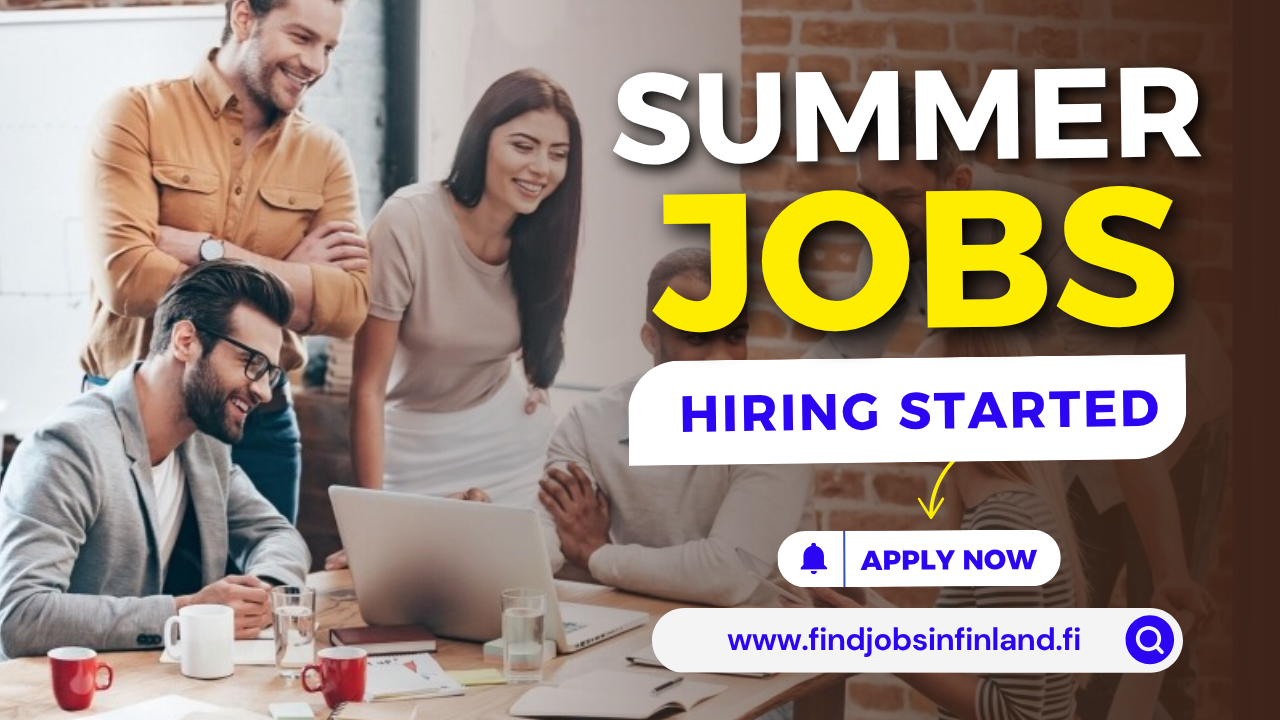
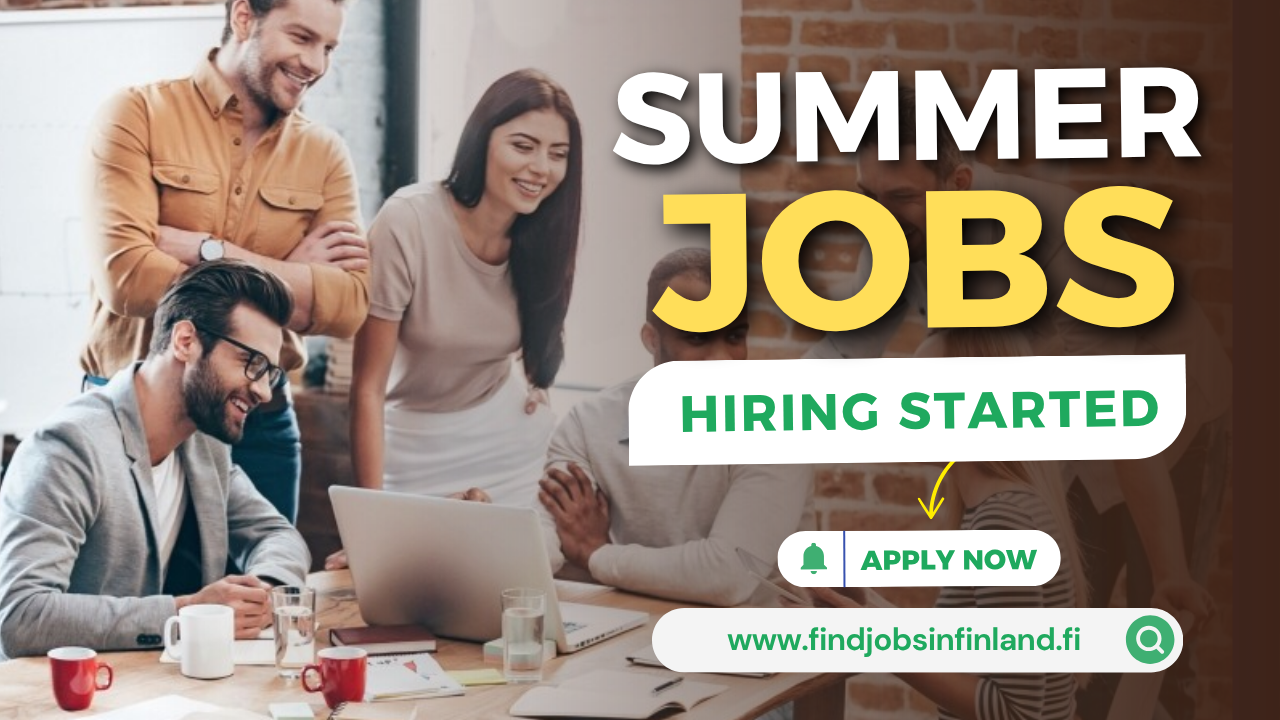
feat: add new blog posts, job listings, and supporting assets while updating site documentation and pages

diff --git a/index.html b/index.html
@@ -18,9 +18,9 @@
   <meta
     content="jobs in Finland, findjobsinfinland, Finland job vacancies, job opportunities in Finland, Finland jobs for foreigners, part-time jobs in Finland, full-time jobs in Finland, apply for jobs in Finland, work in Finland, job listings Finland, hiring now in Finland, job search Finland, jobs in Finland for immigrants, jobs in Finland for non-EU citizens, jobs in Finland for foreigners 2025, how to get a job in Finland as a foreigner, work permit jobs in Finland, jobs in Finland for refugees, work in Finland without Finnish language, no Finnish required jobs, English speaking jobs in Finland, jobs for expats in Finland, foreign worker jobs Finland, student jobs in Finland, part-time jobs for students Finland, international student jobs Finland, jobs in Finland for students 2025, work while studying in Finland, student work permit Finland, weekend jobs Finland students, Summer Jobs in Finland for students, cleaning jobs in Finland, delivery jobs in Finland, IT jobs in Finland, software developer jobs Finland, restaurant jobs Finland, supermarket jobs Finland, warehouse jobs Finland, construction jobs Finland, farm jobs Finland, driver jobs Finland, remote jobs in Finland, online jobs in Finland, care jobs Finland, nursing jobs Finland, hospitality jobs Finland, factory jobs Finland, freelance jobs in Finland, jobs in Helsinki, jobs in Espoo, jobs in Vantaa, jobs in Tampere, jobs in Turku, jobs in Oulu, jobs in Lahti, jobs in Jyväskylä, jobs in Finland for foreigners in Helsinki, part-time jobs in Espoo, full-time jobs in Vantaa, how to find a job in Finland, how to apply for jobs in Finland, where to look for jobs in Finland, which jobs are available for foreigners in Finland, how can I work in Finland as a student, what jobs can I do without speaking Finnish, what is the easiest job to get in Finland, is it easy to get a job in Finland for immigrants, best jobs in Finland for international students, can I work in Finland as a non-EU citizen, Finland job portal for foreigners, apply now jobs Finland, hiring immediately Finland, start work today Finland, urgent jobs Finland, Finland jobs no experience, entry-level jobs Finland, work today get paid today Finland, open job positions Finland, free job portal Finland, job site for immigrants Finland, jobs in Finland com open jobs for foreigners, jobs in Finland com, jobs in Finland fi, jobs in Finland government website, jobs in Finland official website, jobs in Finland poea, poea jobs in Finland 2025, Summer Jobs in Finland, Summer Jobs in Finland 2024, Summer Jobs in Finland 2025, strawberry picking jobs in Finland, berry picking jobs in Finland, seasonal jobs in Finland 2025, jobs in Finland for 15-year-olds, volunteer jobs in Finland pieksamaki for foreigners, jobs in Finland agriculture, jobs in Finland construction, jobs in Finland barona, jobs in Finland aviation, aviation jobs in Finland, jobs in Finland cleaner, cleaning jobs in Helsinki Finland, cleaning jobs in Oulu Finland, cleaning jobs in Lahti Finland, cleaning jobs in Jyväskylä Finland, cleaning jobs in Lapland Finland, newspaper delivery jobs in Finland, delivery jobs in Finland for foreigners, warehouse jobs in Helsinki Finland, driving jobs in Helsinki Finland, nursing jobs in Helsinki Finland, jobs in Finland and salary, is 4000 a good salary in Finland, are salaries low in Finland, what is the minimum wage in Finland, highest paying jobs in Finland, best jobs in Finland, best jobs in Finland for foreigners, which field is best in Finland, what jobs are in demand in Finland, what jobs are in demand in Finland for foreigners, what jobs are needed in Finland, what jobs are most wanted in Finland, what jobs are shortage in Finland, what job is in highest demand in Finland, what are common jobs in Finland, what are the best jobs in Finland"
     name="keywords" />
-  <meta content="#482dff" name="theme-color" />
-  <meta content="#482dff" name="msapplication-navbutton-color" />
-  <meta content="#482dff" name="apple-mobile-web-app-status-bar-style" />
+  <meta content="#41B375" name="theme-color" />
+  <meta content="#41B375" name="msapplication-navbutton-color" />
+  <meta content="#41B375" name="apple-mobile-web-app-status-bar-style" />
   <meta content="true" name="apple-mobile-web-app-capable" />
   <!-- General favicon -->
   <link href="https://findjobsinfinland.fi/images/icon.png" rel="icon" sizes="32x32" type="image/png" />
@@ -3526,7 +3526,7 @@
       a {
         display: inline-block;
         position: relative;
-        color: #9303FA;
+        color: #41B375;
         text-decoration: none;
         font-weight: bold
       }
@@ -3539,7 +3539,7 @@
         height: 2px;
         bottom: 0;
         left: 0;
-        background-color: #9303FA;
+        background-color: #41B375;
         transform-origin: bottom right;
         transition: transform .25s ease-out
       }

diff --git a/jobs.html b/jobs.html
@@ -16,9 +16,9 @@
   <meta
     content="jobs in Finland, findjobsinfinland, Finland job vacancies, job opportunities in Finland, Finland jobs for foreigners, part-time jobs in Finland, full-time jobs in Finland, apply for jobs in Finland, work in Finland, job listings Finland, hiring now in Finland, job search Finland, jobs in Finland for immigrants, jobs in Finland for non-EU citizens, jobs in Finland for foreigners 2025, how to get a job in Finland as a foreigner, work permit jobs in Finland, jobs in Finland for refugees, work in Finland without Finnish language, no Finnish required jobs, English speaking jobs in Finland, jobs for expats in Finland, foreign worker jobs Finland, student jobs in Finland, part-time jobs for students Finland, international student jobs Finland, jobs in Finland for students 2025, work while studying in Finland, student work permit Finland, weekend jobs Finland students, Summer Jobs in Finland for students, cleaning jobs in Finland, delivery jobs in Finland, IT jobs in Finland, software developer jobs Finland, restaurant jobs Finland, supermarket jobs Finland, warehouse jobs Finland, construction jobs Finland, farm jobs Finland, driver jobs Finland, remote jobs in Finland, online jobs in Finland, care jobs Finland, nursing jobs Finland, hospitality jobs Finland, factory jobs Finland, freelance jobs in Finland, jobs in Helsinki, jobs in Espoo, jobs in Vantaa, jobs in Tampere, jobs in Turku, jobs in Oulu, jobs in Lahti, jobs in Jyväskylä, jobs in Finland for foreigners in Helsinki, part-time jobs in Espoo, full-time jobs in Vantaa, how to find a job in Finland, how to apply for jobs in Finland, where to look for jobs in Finland, which jobs are available for foreigners in Finland, how can I work in Finland as a student, what jobs can I do without speaking Finnish, what is the easiest job to get in Finland, is it easy to get a job in Finland for immigrants, best jobs in Finland for international students, can I work in Finland as a non-EU citizen, Finland job portal for foreigners, apply now jobs Finland, hiring immediately Finland, start work today Finland, urgent jobs Finland, Finland jobs no experience, entry-level jobs Finland, work today get paid today Finland, open job positions Finland, free job portal Finland, job site for immigrants Finland, jobs in Finland com open jobs for foreigners, jobs in Finland com, jobs in Finland fi, jobs in Finland government website, jobs in Finland official website, jobs in Finland poea, poea jobs in Finland 2025, Summer Jobs in Finland, Summer Jobs in Finland 2024, Summer Jobs in Finland 2025, strawberry picking jobs in Finland, berry picking jobs in Finland, seasonal jobs in Finland 2025, jobs in Finland for 15-year-olds, volunteer jobs in Finland pieksamaki for foreigners, jobs in Finland agriculture, jobs in Finland construction, jobs in Finland barona, jobs in Finland aviation, aviation jobs in Finland, jobs in Finland cleaner, cleaning jobs in Helsinki Finland, cleaning jobs in Oulu Finland, cleaning jobs in Lahti Finland, cleaning jobs in Jyväskylä Finland, cleaning jobs in Lapland Finland, newspaper delivery jobs in Finland, delivery jobs in Finland for foreigners, warehouse jobs in Helsinki Finland, driving jobs in Helsinki Finland, nursing jobs in Helsinki Finland, jobs in Finland and salary, is 4000 a good salary in Finland, are salaries low in Finland, what is the minimum wage in Finland, highest paying jobs in Finland, best jobs in Finland, best jobs in Finland for foreigners, which field is best in Finland, what jobs are in demand in Finland, what jobs are in demand in Finland for foreigners, what jobs are needed in Finland, what jobs are most wanted in Finland, what jobs are shortage in Finland, what job is in highest demand in Finland, what are common jobs in Finland, what are the best jobs in Finland"
     name="keywords" />
-  <meta content="#482dff" name="theme-color" />
-  <meta content="#482dff" name="msapplication-navbutton-color" />
-  <meta content="#482dff" name="apple-mobile-web-app-status-bar-style" />
+  <meta content="#41B375" name="theme-color" />
+  <meta content="#41B375" name="msapplication-navbutton-color" />
+  <meta content="#41B375" name="apple-mobile-web-app-status-bar-style" />
   <meta content="true" name="apple-mobile-web-app-capable" />
   <!-- General favicon -->
   <link href="https://findjobsinfinland.fi/images/icon.png" rel="icon" sizes="32x32" type="image/png" />
@@ -3173,7 +3173,7 @@
       a {
         display: inline-block;
         position: relative;
-        color: #9303FA;
+        color: #41B375;
         text-decoration: none;
         font-weight: bold
       }
@@ -3186,7 +3186,7 @@
         height: 2px;
         bottom: 0;
         left: 0;
-        background-color: #9303FA;
+        background-color: #41B375;
         transform-origin: bottom right;
         transition: transform .25s ease-out
       }

diff --git a/about-us.html b/about-us.html
@@ -19,9 +19,9 @@
   <meta name="keywords"
     content="jobs in Finland, findjobsinfinland, Finland job vacancies, job opportunities in Finland, Finland jobs for foreigners, part-time jobs in Finland, full-time jobs in Finland, apply for jobs in Finland, work in Finland, job listings Finland, hiring now in Finland, job search Finland, jobs in Finland for immigrants, jobs in Finland for non-EU citizens, jobs in Finland for foreigners 2025, how to get a job in Finland as a foreigner, work permit jobs in Finland, jobs in Finland for refugees, work in Finland without Finnish language, no Finnish required jobs, English speaking jobs in Finland, jobs for expats in Finland, foreign worker jobs Finland, student jobs in Finland, part-time jobs for students Finland, international student jobs Finland, jobs in Finland for students 2025, work while studying in Finland, student work permit Finland, weekend jobs Finland students, Summer Jobs in Finland for students, cleaning jobs in Finland, delivery jobs in Finland, IT jobs in Finland, software developer jobs Finland, restaurant jobs Finland, supermarket jobs Finland, warehouse jobs Finland, construction jobs Finland, farm jobs Finland, driver jobs Finland, remote jobs in Finland, online jobs in Finland, care jobs Finland, nursing jobs Finland, hospitality jobs Finland, factory jobs Finland, freelance jobs in Finland, jobs in Helsinki, jobs in Espoo, jobs in Vantaa, jobs in Tampere, jobs in Turku, jobs in Oulu, jobs in Lahti, jobs in Jyväskylä, jobs in Finland for foreigners in Helsinki, part-time jobs in Espoo, full-time jobs in Vantaa, how to find a job in Finland, how to apply for jobs in Finland, where to look for jobs in Finland, which jobs are available for foreigners in Finland, how can I work in Finland as a student, what jobs can I do without speaking Finnish, what is the easiest job to get in Finland, is it easy to get a job in Finland for immigrants, best jobs in Finland for international students, can I work in Finland as a non-EU citizen, Finland job portal for foreigners, apply now jobs Finland, hiring immediately Finland, start work today Finland, urgent jobs Finland, Finland jobs no experience, entry-level jobs Finland, work today get paid today Finland, open job positions Finland, free job portal Finland, job site for immigrants Finland, jobs in Finland com open jobs for foreigners, jobs in Finland com, jobs in Finland fi, jobs in Finland government website, jobs in Finland official website, jobs in Finland poea, poea jobs in Finland 2025, Summer Jobs in Finland, Summer Jobs in Finland 2024, Summer Jobs in Finland 2025, strawberry picking jobs in Finland, berry picking jobs in Finland, seasonal jobs in Finland 2025, jobs in Finland for 15-year-olds, volunteer jobs in Finland pieksamaki for foreigners, jobs in Finland agriculture, jobs in Finland construction, jobs in Finland barona, jobs in Finland aviation, aviation jobs in Finland, jobs in Finland cleaner, cleaning jobs in Helsinki Finland, cleaning jobs in Oulu Finland, cleaning jobs in Lahti Finland, cleaning jobs in Jyväskylä Finland, cleaning jobs in Lapland Finland, newspaper delivery jobs in Finland, delivery jobs in Finland for foreigners, warehouse jobs in Helsinki Finland, driving jobs in Helsinki Finland, nursing jobs in Helsinki Finland, jobs in Finland and salary, is 4000 a good salary in Finland, are salaries low in Finland, what is the minimum wage in Finland, highest paying jobs in Finland, best jobs in Finland, best jobs in Finland for foreigners, which field is best in Finland, what jobs are in demand in Finland, what jobs are in demand in Finland for foreigners, what jobs are needed in Finland, what jobs are most wanted in Finland, what jobs are shortage in Finland, what job is in highest demand in Finland, what are common jobs in Finland, what are the best jobs in Finland" />
 
-  <meta content="#482dff" name="theme-color" />
-  <meta content="#482dff" name="msapplication-navbutton-color" />
-  <meta content="#482dff" name="apple-mobile-web-app-status-bar-style" />
+  <meta content="#41B375" name="theme-color" />
+  <meta content="#41B375" name="msapplication-navbutton-color" />
+  <meta content="#41B375" name="apple-mobile-web-app-status-bar-style" />
   <meta content="true" name="apple-mobile-web-app-capable" />
 
   <!-- General favicon -->
@@ -1517,7 +1517,7 @@
     a {
       display: inline-block;
       position: relative;
-      color: #9303FA;
+      color: #41B375;
       text-decoration: none;
       font-weight: bold
     }
@@ -1530,7 +1530,7 @@
       height: 2px;
       bottom: 0;
       left: 0;
-      background-color: #9303FA;
+      background-color: #41B375;
       transform-origin: bottom right;
       transition: transform .25s ease-out
     }

diff --git a/contact-us.html b/contact-us.html
@@ -19,9 +19,9 @@
   <meta name="keywords"
     content="jobs in Finland, findjobsinfinland, Finland job vacancies, job opportunities in Finland, Finland jobs for foreigners, part-time jobs in Finland, full-time jobs in Finland, apply for jobs in Finland, work in Finland, job listings Finland, hiring now in Finland, job search Finland, jobs in Finland for immigrants, jobs in Finland for non-EU citizens, jobs in Finland for foreigners 2025, how to get a job in Finland as a foreigner, work permit jobs in Finland, jobs in Finland for refugees, work in Finland without Finnish language, no Finnish required jobs, English speaking jobs in Finland, jobs for expats in Finland, foreign worker jobs Finland, student jobs in Finland, part-time jobs for students Finland, international student jobs Finland, jobs in Finland for students 2025, work while studying in Finland, student work permit Finland, weekend jobs Finland students, Summer Jobs in Finland for students, cleaning jobs in Finland, delivery jobs in Finland, IT jobs in Finland, software developer jobs Finland, restaurant jobs Finland, supermarket jobs Finland, warehouse jobs Finland, construction jobs Finland, farm jobs Finland, driver jobs Finland, remote jobs in Finland, online jobs in Finland, care jobs Finland, nursing jobs Finland, hospitality jobs Finland, factory jobs Finland, freelance jobs in Finland, jobs in Helsinki, jobs in Espoo, jobs in Vantaa, jobs in Tampere, jobs in Turku, jobs in Oulu, jobs in Lahti, jobs in Jyväskylä, jobs in Finland for foreigners in Helsinki, part-time jobs in Espoo, full-time jobs in Vantaa, how to find a job in Finland, how to apply for jobs in Finland, where to look for jobs in Finland, which jobs are available for foreigners in Finland, how can I work in Finland as a student, what jobs can I do without speaking Finnish, what is the easiest job to get in Finland, is it easy to get a job in Finland for immigrants, best jobs in Finland for international students, can I work in Finland as a non-EU citizen, Finland job portal for foreigners, apply now jobs Finland, hiring immediately Finland, start work today Finland, urgent jobs Finland, Finland jobs no experience, entry-level jobs Finland, work today get paid today Finland, open job positions Finland, free job portal Finland, job site for immigrants Finland, jobs in Finland com open jobs for foreigners, jobs in Finland com, jobs in Finland fi, jobs in Finland government website, jobs in Finland official website, jobs in Finland poea, poea jobs in Finland 2025, Summer Jobs in Finland, Summer Jobs in Finland 2024, Summer Jobs in Finland 2025, strawberry picking jobs in Finland, berry picking jobs in Finland, seasonal jobs in Finland 2025, jobs in Finland for 15-year-olds, volunteer jobs in Finland pieksamaki for foreigners, jobs in Finland agriculture, jobs in Finland construction, jobs in Finland barona, jobs in Finland aviation, aviation jobs in Finland, jobs in Finland cleaner, cleaning jobs in Helsinki Finland, cleaning jobs in Oulu Finland, cleaning jobs in Lahti Finland, cleaning jobs in Jyväskylä Finland, cleaning jobs in Lapland Finland, newspaper delivery jobs in Finland, delivery jobs in Finland for foreigners, warehouse jobs in Helsinki Finland, driving jobs in Helsinki Finland, nursing jobs in Helsinki Finland, jobs in Finland and salary, is 4000 a good salary in Finland, are salaries low in Finland, what is the minimum wage in Finland, highest paying jobs in Finland, best jobs in Finland, best jobs in Finland for foreigners, which field is best in Finland, what jobs are in demand in Finland, what jobs are in demand in Finland for foreigners, what jobs are needed in Finland, what jobs are most wanted in Finland, what jobs are shortage in Finland, what job is in highest demand in Finland, what are common jobs in Finland, what are the best jobs in Finland" />
 
-  <meta content="#482dff" name="theme-color" />
-  <meta content="#482dff" name="msapplication-navbutton-color" />
-  <meta content="#482dff" name="apple-mobile-web-app-status-bar-style" />
+  <meta content="#41B375" name="theme-color" />
+  <meta content="#41B375" name="msapplication-navbutton-color" />
+  <meta content="#41B375" name="apple-mobile-web-app-status-bar-style" />
   <meta content="true" name="apple-mobile-web-app-capable" />
 
   <!-- General favicon -->
@@ -1540,7 +1540,7 @@
     a {
       display: inline-block;
       position: relative;
-      color: #9303FA;
+      color: #41B375;
       text-decoration: none;
       font-weight: bold
     }
@@ -1553,7 +1553,7 @@
       height: 2px;
       bottom: 0;
       left: 0;
-      background-color: #9303FA;
+      background-color: #41B375;
       transform-origin: bottom right;
       transition: transform .25s ease-out
     }

diff --git a/disclaimer.html b/disclaimer.html
@@ -19,9 +19,9 @@
   <meta name="keywords"
     content="jobs in Finland, findjobsinfinland, Finland job vacancies, job opportunities in Finland, Finland jobs for foreigners, part-time jobs in Finland, full-time jobs in Finland, apply for jobs in Finland, work in Finland, job listings Finland, hiring now in Finland, job search Finland, jobs in Finland for immigrants, jobs in Finland for non-EU citizens, jobs in Finland for foreigners 2025, how to get a job in Finland as a foreigner, work permit jobs in Finland, jobs in Finland for refugees, work in Finland without Finnish language, no Finnish required jobs, English speaking jobs in Finland, jobs for expats in Finland, foreign worker jobs Finland, student jobs in Finland, part-time jobs for students Finland, international student jobs Finland, jobs in Finland for students 2025, work while studying in Finland, student work permit Finland, weekend jobs Finland students, Summer Jobs in Finland for students, cleaning jobs in Finland, delivery jobs in Finland, IT jobs in Finland, software developer jobs Finland, restaurant jobs Finland, supermarket jobs Finland, warehouse jobs Finland, construction jobs Finland, farm jobs Finland, driver jobs Finland, remote jobs in Finland, online jobs in Finland, care jobs Finland, nursing jobs Finland, hospitality jobs Finland, factory jobs Finland, freelance jobs in Finland, jobs in Helsinki, jobs in Espoo, jobs in Vantaa, jobs in Tampere, jobs in Turku, jobs in Oulu, jobs in Lahti, jobs in Jyväskylä, jobs in Finland for foreigners in Helsinki, part-time jobs in Espoo, full-time jobs in Vantaa, how to find a job in Finland, how to apply for jobs in Finland, where to look for jobs in Finland, which jobs are available for foreigners in Finland, how can I work in Finland as a student, what jobs can I do without speaking Finnish, what is the easiest job to get in Finland, is it easy to get a job in Finland for immigrants, best jobs in Finland for international students, can I work in Finland as a non-EU citizen, Finland job portal for foreigners, apply now jobs Finland, hiring immediately Finland, start work today Finland, urgent jobs Finland, Finland jobs no experience, entry-level jobs Finland, work today get paid today Finland, open job positions Finland, free job portal Finland, job site for immigrants Finland, jobs in Finland com open jobs for foreigners, jobs in Finland com, jobs in Finland fi, jobs in Finland government website, jobs in Finland official website, jobs in Finland poea, poea jobs in Finland 2025, Summer Jobs in Finland, Summer Jobs in Finland 2024, Summer Jobs in Finland 2025, strawberry picking jobs in Finland, berry picking jobs in Finland, seasonal jobs in Finland 2025, jobs in Finland for 15-year-olds, volunteer jobs in Finland pieksamaki for foreigners, jobs in Finland agriculture, jobs in Finland construction, jobs in Finland barona, jobs in Finland aviation, aviation jobs in Finland, jobs in Finland cleaner, cleaning jobs in Helsinki Finland, cleaning jobs in Oulu Finland, cleaning jobs in Lahti Finland, cleaning jobs in Jyväskylä Finland, cleaning jobs in Lapland Finland, newspaper delivery jobs in Finland, delivery jobs in Finland for foreigners, warehouse jobs in Helsinki Finland, driving jobs in Helsinki Finland, nursing jobs in Helsinki Finland, jobs in Finland and salary, is 4000 a good salary in Finland, are salaries low in Finland, what is the minimum wage in Finland, highest paying jobs in Finland, best jobs in Finland, best jobs in Finland for foreigners, which field is best in Finland, what jobs are in demand in Finland, what jobs are in demand in Finland for foreigners, what jobs are needed in Finland, what jobs are most wanted in Finland, what jobs are shortage in Finland, what job is in highest demand in Finland, what are common jobs in Finland, what are the best jobs in Finland" />
 
-  <meta content="#482dff" name="theme-color" />
-  <meta content="#482dff" name="msapplication-navbutton-color" />
-  <meta content="#482dff" name="apple-mobile-web-app-status-bar-style" />
+  <meta content="#41B375" name="theme-color" />
+  <meta content="#41B375" name="msapplication-navbutton-color" />
+  <meta content="#41B375" name="apple-mobile-web-app-status-bar-style" />
   <meta content="true" name="apple-mobile-web-app-capable" />
 
   <!-- General favicon -->
@@ -1284,7 +1284,7 @@
     a {
       display: inline-block;
       position: relative;
-      color: #9303FA;
+      color: #41B375;
       text-decoration: none;
       font-weight: bold
     }
@@ -1297,7 +1297,7 @@
       height: 2px;
       bottom: 0;
       left: 0;
-      background-color: #9303FA;
+      background-color: #41B375;
       transform-origin: bottom right;
       transition: transform .25s ease-out
     }

diff --git a/privacy-policy.html b/privacy-policy.html
@@ -19,9 +19,9 @@
   <meta name="keywords"
     content="jobs in Finland, findjobsinfinland, Finland job vacancies, job opportunities in Finland, Finland jobs for foreigners, part-time jobs in Finland, full-time jobs in Finland, apply for jobs in Finland, work in Finland, job listings Finland, hiring now in Finland, job search Finland, jobs in Finland for immigrants, jobs in Finland for non-EU citizens, jobs in Finland for foreigners 2025, how to get a job in Finland as a foreigner, work permit jobs in Finland, jobs in Finland for refugees, work in Finland without Finnish language, no Finnish required jobs, English speaking jobs in Finland, jobs for expats in Finland, foreign worker jobs Finland, student jobs in Finland, part-time jobs for students Finland, international student jobs Finland, jobs in Finland for students 2025, work while studying in Finland, student work permit Finland, weekend jobs Finland students, Summer Jobs in Finland for students, cleaning jobs in Finland, delivery jobs in Finland, IT jobs in Finland, software developer jobs Finland, restaurant jobs Finland, supermarket jobs Finland, warehouse jobs Finland, construction jobs Finland, farm jobs Finland, driver jobs Finland, remote jobs in Finland, online jobs in Finland, care jobs Finland, nursing jobs Finland, hospitality jobs Finland, factory jobs Finland, freelance jobs in Finland, jobs in Helsinki, jobs in Espoo, jobs in Vantaa, jobs in Tampere, jobs in Turku, jobs in Oulu, jobs in Lahti, jobs in Jyväskylä, jobs in Finland for foreigners in Helsinki, part-time jobs in Espoo, full-time jobs in Vantaa, how to find a job in Finland, how to apply for jobs in Finland, where to look for jobs in Finland, which jobs are available for foreigners in Finland, how can I work in Finland as a student, what jobs can I do without speaking Finnish, what is the easiest job to get in Finland, is it easy to get a job in Finland for immigrants, best jobs in Finland for international students, can I work in Finland as a non-EU citizen, Finland job portal for foreigners, apply now jobs Finland, hiring immediately Finland, start work today Finland, urgent jobs Finland, Finland jobs no experience, entry-level jobs Finland, work today get paid today Finland, open job positions Finland, free job portal Finland, job site for immigrants Finland, jobs in Finland com open jobs for foreigners, jobs in Finland com, jobs in Finland fi, jobs in Finland government website, jobs in Finland official website, jobs in Finland poea, poea jobs in Finland 2025, Summer Jobs in Finland, Summer Jobs in Finland 2024, Summer Jobs in Finland 2025, strawberry picking jobs in Finland, berry picking jobs in Finland, seasonal jobs in Finland 2025, jobs in Finland for 15-year-olds, volunteer jobs in Finland pieksamaki for foreigners, jobs in Finland agriculture, jobs in Finland construction, jobs in Finland barona, jobs in Finland aviation, aviation jobs in Finland, jobs in Finland cleaner, cleaning jobs in Helsinki Finland, cleaning jobs in Oulu Finland, cleaning jobs in Lahti Finland, cleaning jobs in Jyväskylä Finland, cleaning jobs in Lapland Finland, newspaper delivery jobs in Finland, delivery jobs in Finland for foreigners, warehouse jobs in Helsinki Finland, driving jobs in Helsinki Finland, nursing jobs in Helsinki Finland, jobs in Finland and salary, is 4000 a good salary in Finland, are salaries low in Finland, what is the minimum wage in Finland, highest paying jobs in Finland, best jobs in Finland, best jobs in Finland for foreigners, which field is best in Finland, what jobs are in demand in Finland, what jobs are in demand in Finland for foreigners, what jobs are needed in Finland, what jobs are most wanted in Finland, what jobs are shortage in Finland, what job is in highest demand in Finland, what are common jobs in Finland, what are the best jobs in Finland" />
 
-  <meta content="#482dff" name="theme-color" />
-  <meta content="#482dff" name="msapplication-navbutton-color" />
-  <meta content="#482dff" name="apple-mobile-web-app-status-bar-style" />
+  <meta content="#41B375" name="theme-color" />
+  <meta content="#41B375" name="msapplication-navbutton-color" />
+  <meta content="#41B375" name="apple-mobile-web-app-status-bar-style" />
   <meta content="true" name="apple-mobile-web-app-capable" />
 
   <!-- General favicon -->
@@ -1309,7 +1309,7 @@
     a {
       display: inline-block;
       position: relative;
-      color: #9303FA;
+      color: #41B375;
       text-decoration: none;
       font-weight: bold
     }
@@ -1322,7 +1322,7 @@
       height: 2px;
       bottom: 0;
       left: 0;
-      background-color: #9303FA;
+      background-color: #41B375;
       transform-origin: bottom right;
       transition: transform .25s ease-out
     }

diff --git a/terms-and-conditions.html b/terms-and-conditions.html
@@ -19,9 +19,9 @@
   <meta name="keywords"
     content="jobs in Finland, findjobsinfinland, Finland job vacancies, job opportunities in Finland, Finland jobs for foreigners, part-time jobs in Finland, full-time jobs in Finland, apply for jobs in Finland, work in Finland, job listings Finland, hiring now in Finland, job search Finland, jobs in Finland for immigrants, jobs in Finland for non-EU citizens, jobs in Finland for foreigners 2025, how to get a job in Finland as a foreigner, work permit jobs in Finland, jobs in Finland for refugees, work in Finland without Finnish language, no Finnish required jobs, English speaking jobs in Finland, jobs for expats in Finland, foreign worker jobs Finland, student jobs in Finland, part-time jobs for students Finland, international student jobs Finland, jobs in Finland for students 2025, work while studying in Finland, student work permit Finland, weekend jobs Finland students, Summer Jobs in Finland for students, cleaning jobs in Finland, delivery jobs in Finland, IT jobs in Finland, software developer jobs Finland, restaurant jobs Finland, supermarket jobs Finland, warehouse jobs Finland, construction jobs Finland, farm jobs Finland, driver jobs Finland, remote jobs in Finland, online jobs in Finland, care jobs Finland, nursing jobs Finland, hospitality jobs Finland, factory jobs Finland, freelance jobs in Finland, jobs in Helsinki, jobs in Espoo, jobs in Vantaa, jobs in Tampere, jobs in Turku, jobs in Oulu, jobs in Lahti, jobs in Jyväskylä, jobs in Finland for foreigners in Helsinki, part-time jobs in Espoo, full-time jobs in Vantaa, how to find a job in Finland, how to apply for jobs in Finland, where to look for jobs in Finland, which jobs are available for foreigners in Finland, how can I work in Finland as a student, what jobs can I do without speaking Finnish, what is the easiest job to get in Finland, is it easy to get a job in Finland for immigrants, best jobs in Finland for international students, can I work in Finland as a non-EU citizen, Finland job portal for foreigners, apply now jobs Finland, hiring immediately Finland, start work today Finland, urgent jobs Finland, Finland jobs no experience, entry-level jobs Finland, work today get paid today Finland, open job positions Finland, free job portal Finland, job site for immigrants Finland, jobs in Finland com open jobs for foreigners, jobs in Finland com, jobs in Finland fi, jobs in Finland government website, jobs in Finland official website, jobs in Finland poea, poea jobs in Finland 2025, Summer Jobs in Finland, Summer Jobs in Finland 2024, Summer Jobs in Finland 2025, strawberry picking jobs in Finland, berry picking jobs in Finland, seasonal jobs in Finland 2025, jobs in Finland for 15-year-olds, volunteer jobs in Finland pieksamaki for foreigners, jobs in Finland agriculture, jobs in Finland construction, jobs in Finland barona, jobs in Finland aviation, aviation jobs in Finland, jobs in Finland cleaner, cleaning jobs in Helsinki Finland, cleaning jobs in Oulu Finland, cleaning jobs in Lahti Finland, cleaning jobs in Jyväskylä Finland, cleaning jobs in Lapland Finland, newspaper delivery jobs in Finland, delivery jobs in Finland for foreigners, warehouse jobs in Helsinki Finland, driving jobs in Helsinki Finland, nursing jobs in Helsinki Finland, jobs in Finland and salary, is 4000 a good salary in Finland, are salaries low in Finland, what is the minimum wage in Finland, highest paying jobs in Finland, best jobs in Finland, best jobs in Finland for foreigners, which field is best in Finland, what jobs are in demand in Finland, what jobs are in demand in Finland for foreigners, what jobs are needed in Finland, what jobs are most wanted in Finland, what jobs are shortage in Finland, what job is in highest demand in Finland, what are common jobs in Finland, what are the best jobs in Finland" />
 
-  <meta content="#482dff" name="theme-color" />
-  <meta content="#482dff" name="msapplication-navbutton-color" />
-  <meta content="#482dff" name="apple-mobile-web-app-status-bar-style" />
+  <meta content="#41B375" name="theme-color" />
+  <meta content="#41B375" name="msapplication-navbutton-color" />
+  <meta content="#41B375" name="apple-mobile-web-app-status-bar-style" />
   <meta content="true" name="apple-mobile-web-app-capable" />
 
   <!-- General favicon -->
@@ -1312,7 +1312,7 @@
     a {
       display: inline-block;
       position: relative;
-      color: #9303FA;
+      color: #41B375;
       text-decoration: none;
       font-weight: bold
     }
@@ -1325,7 +1325,7 @@
       height: 2px;
       bottom: 0;
       left: 0;
-      background-color: #9303FA;
+      background-color: #41B375;
       transform-origin: bottom right;
       transition: transform .25s ease-out
     }

diff --git a/blogs/tips-and-tricks-for-interview-in-finland.html b/blogs/tips-and-tricks-for-interview-in-finland.html
@@ -35,9 +35,9 @@
   <meta name="twitter:image" content="https://findjobsinfinland.fi/images/blogs/tips-and-tricks-for-interview.png" />
 
 
-  <meta content="#482dff" name="theme-color" />
-  <meta content="#482dff" name="msapplication-navbutton-color" />
-  <meta content="#482dff" name="apple-mobile-web-app-status-bar-style" />
+  <meta content="#41B375" name="theme-color" />
+  <meta content="#41B375" name="msapplication-navbutton-color" />
+  <meta content="#41B375" name="apple-mobile-web-app-status-bar-style" />
   <meta content="true" name="apple-mobile-web-app-capable" />
 
   <!-- General favicon -->
@@ -2835,7 +2835,7 @@ Check it out now and boost your chances to land your dream job in Finland.
     a {
       display: inline-block;
       position: relative;
-      color: #9303FA;
+      color: #41B375;
       text-decoration: none;
       font-weight: bold
     }
@@ -2848,7 +2848,7 @@ Check it out now and boost your chances to land your dream job in Finland.
       height: 2px;
       bottom: 0;
       left: 0;
-      background-color: #9303FA;
+      background-color: #41B375;
       transform-origin: bottom right;
       transition: transform .25s ease-out
     }

diff --git a/edit-profile.html b/edit-profile.html
@@ -9,9 +9,9 @@
     name="viewport" />
   <meta content="IE=edge" http-equiv="X-UA-Compatible" />
   <meta content="noindex, nofollow, max-image-preview:large" name="robots" />
-  <meta content="#482dff" name="theme-color" />
-  <meta content="#482dff" name="msapplication-navbutton-color" />
-  <meta content="#482dff" name="apple-mobile-web-app-status-bar-style" />
+  <meta content="#41B375" name="theme-color" />
+  <meta content="#41B375" name="msapplication-navbutton-color" />
+  <meta content="#41B375" name="apple-mobile-web-app-status-bar-style" />
   <meta content="true" name="apple-mobile-web-app-capable" />
   <!-- General favicon -->
   <link href="https://findjobsinfinland.fi/images/icon.png" rel="icon" sizes="32x32" type="image/png" />
@@ -2109,7 +2109,7 @@
     a {
       display: inline-block;
       position: relative;
-      color: #9303FA;
+      color: #41B375;
       text-decoration: none;
       font-weight: bold
     }
@@ -2122,7 +2122,7 @@
       height: 2px;
       bottom: 0;
       left: 0;
-      background-color: #9303FA;
+      background-color: #41B375;
       transform-origin: bottom right;
       transition: transform .25s ease-out
     }

diff --git a/blogs/industry-wise-minimum-wages-in-finland.html b/blogs/industry-wise-minimum-wages-in-finland.html
@@ -37,9 +37,9 @@
   <meta property="twitter:image" content="https://findjobsinfinland.fi/images/blogs/industry-wise-minimum-wages.png">
 
 
-  <meta content="#482dff" name="theme-color" />
-  <meta content="#482dff" name="msapplication-navbutton-color" />
-  <meta content="#482dff" name="apple-mobile-web-app-status-bar-style" />
+  <meta content="#41B375" name="theme-color" />
+  <meta content="#41B375" name="msapplication-navbutton-color" />
+  <meta content="#41B375" name="apple-mobile-web-app-status-bar-style" />
   <meta content="true" name="apple-mobile-web-app-capable" />
 
   <!-- General favicon -->
@@ -2849,7 +2849,7 @@ Check it out now and know your worth in Finland’s job market.
     a {
       display: inline-block;
       position: relative;
-      color: #9303FA;
+      color: #41B375;
       text-decoration: none;
       font-weight: bold
     }
@@ -2862,7 +2862,7 @@ Check it out now and know your worth in Finland’s job market.
       height: 2px;
       bottom: 0;
       left: 0;
-      background-color: #9303FA;
+      background-color: #41B375;
       transform-origin: bottom right;
       transition: transform .25s ease-out
     }

diff --git a/jobs/business-and-administration/excavator-driver-jyväskylä-e53ce2d7.html b/jobs/business-and-administration/excavator-driver-jyväskylä-e53ce2d7.html
@@ -11,9 +11,9 @@
   <meta content="IE=edge" http-equiv="X-UA-Compatible" />
   <meta name="robots" content="index, follow, max-image-preview:large" />
 
-  <meta content="#482dff" name="theme-color" />
-  <meta content="#482dff" name="msapplication-navbutton-color" />
-  <meta content="#482dff" name="apple-mobile-web-app-status-bar-style" />
+  <meta content="#41B375" name="theme-color" />
+  <meta content="#41B375" name="msapplication-navbutton-color" />
+  <meta content="#41B375" name="apple-mobile-web-app-status-bar-style" />
   <meta content="true" name="apple-mobile-web-app-capable" />
 
   <!-- General favicon -->
@@ -3188,7 +3188,7 @@ Apply now from the link and don’t miss out!
     a {
       display: inline-block;
       position: relative;
-      color: #9303FA;
+      color: #41B375;
       text-decoration: none;
       font-weight: bold
     }
@@ -3201,7 +3201,7 @@ Apply now from the link and don’t miss out!
       height: 2px;
       bottom: 0;
       left: 0;
-      background-color: #9303FA;
+      background-color: #41B375;
       transform-origin: bottom right;
       transition: transform .25s ease-out
     }

diff --git a/jobs/food-and-restaurant/chef-riihimäki-8f138a8f.html b/jobs/food-and-restaurant/chef-riihimäki-8f138a8f.html
@@ -11,9 +11,9 @@
   <meta content="IE=edge" http-equiv="X-UA-Compatible" />
   <meta name="robots" content="index, follow, max-image-preview:large" />
 
-  <meta content="#482dff" name="theme-color" />
-  <meta content="#482dff" name="msapplication-navbutton-color" />
-  <meta content="#482dff" name="apple-mobile-web-app-status-bar-style" />
+  <meta content="#41B375" name="theme-color" />
+  <meta content="#41B375" name="msapplication-navbutton-color" />
+  <meta content="#41B375" name="apple-mobile-web-app-status-bar-style" />
   <meta content="true" name="apple-mobile-web-app-capable" />
 
   <!-- General favicon -->
@@ -3191,7 +3191,7 @@ Apply now from the link and don’t miss out!
     a {
       display: inline-block;
       position: relative;
-      color: #9303FA;
+      color: #41B375;
       text-decoration: none;
       font-weight: bold
     }
@@ -3204,7 +3204,7 @@ Apply now from the link and don’t miss out!
       height: 2px;
       bottom: 0;
       left: 0;
-      background-color: #9303FA;
+      background-color: #41B375;
       transform-origin: bottom right;
       transition: transform .25s ease-out
     }
